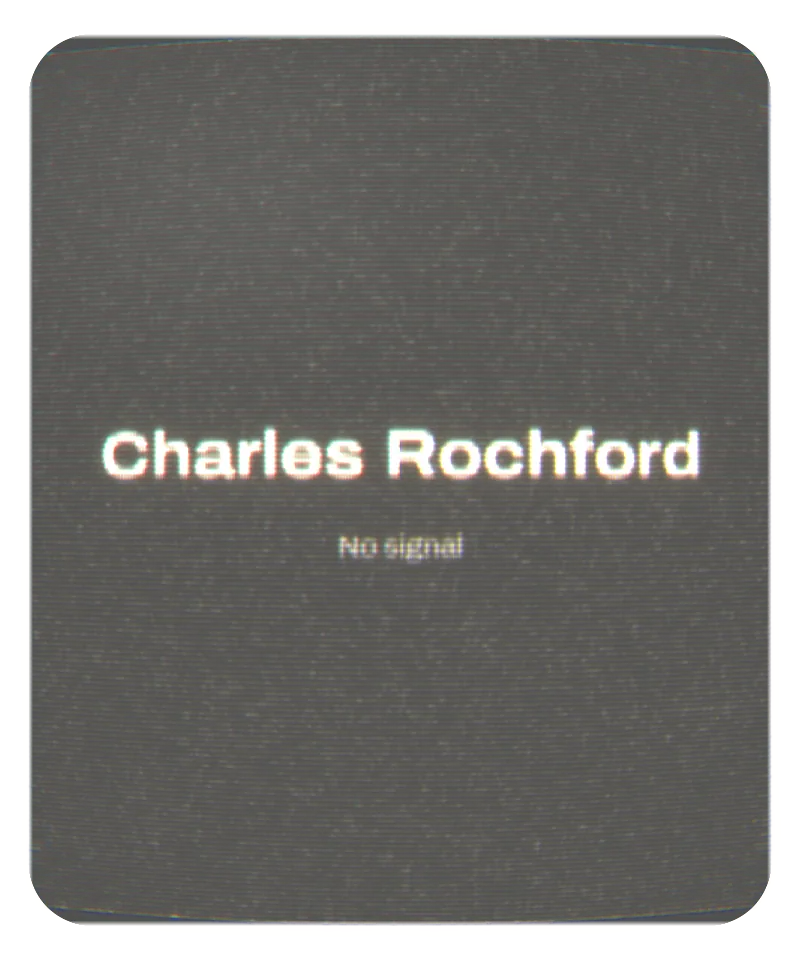
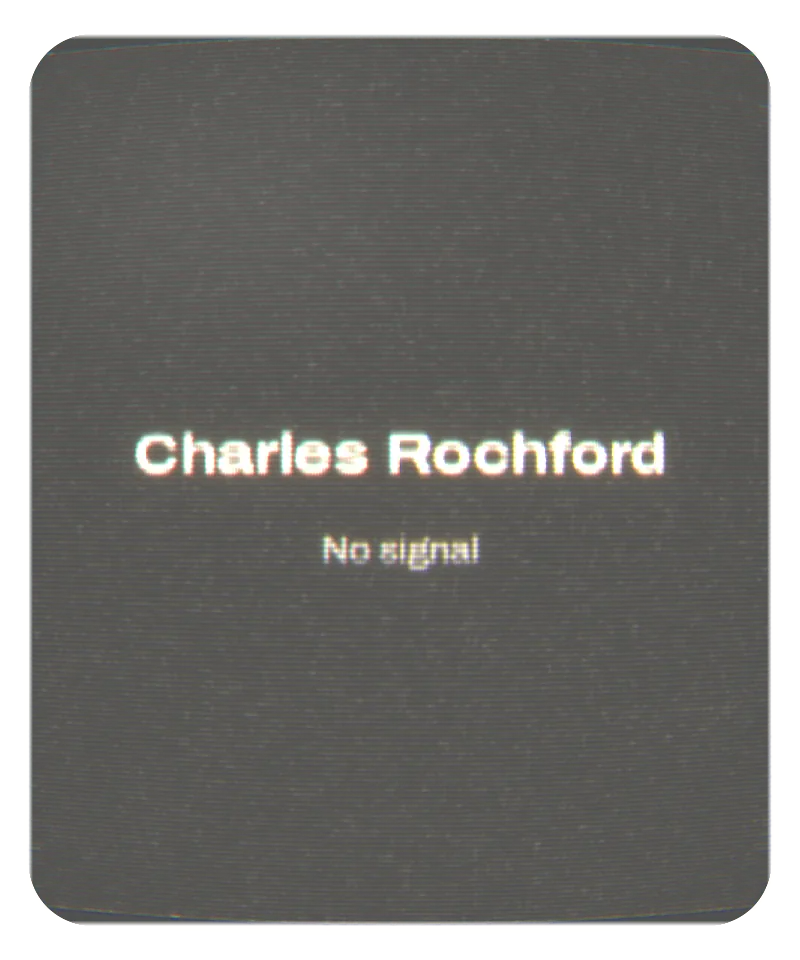
Story: crisp set fronts, round beads when the runs drain, livelier CRT placeholders
The bone set front is now a crisp line with a thin bright edge that sweeps left to right (PayPal too), so a letter is
cooling red or bone, never a long bone-to-rust gradient; the fill front is narrower. A draining tail breaks into round
beads (a circle's profile per bead, the first centred on the tail) and each run's last metal gathers into one round
bead that shrinks into its name, so nothing ends in a point. The CRT placeholders set the name as large as fits and
the tube throws a faint warm light onto the page once it is on.

Claude-Session: https://claude.ai/code/session_01PrrUSitYmSR7aDjHHAhibr

Changed region(s): [[0.125, 0.4375, 0.875, 0.5], [0.4062, 0.5312, 0.625, 0.5938]]

diff --git a/lib/gl/splitPour.ts b/lib/gl/splitPour.ts
@@ -51,10 +51,14 @@ vec3 blackbody(float t) {
 float prof(float s, vec4 B, float r0) {
   float u = (B.x - s) / (r0 * 2.6);
   float m = (1.0 + B.w * exp(-u * u)) * (1.0 + 0.07 * sin(s / (r0 * 5.0) - uTime * 9.0));
-  if (B.y > 0.5) {
-    float z = clamp((s - B.y) / (r0 * 10.0), 0.0, 1.0);
-    float bead = pow(0.5 + 0.5 * cos(6.2832 * (s - B.y) / (r0 * 4.6) + 3.1416), 0.7) * 1.25;
-    m *= mix(bead * smoothstep(0.0, 0.35, z + 0.12), 1.0, smoothstep(0.25, 1.0, z));
+  if (B.y > 0.5 && B.z < 1.5) {
+    // the draining tail breaks into round beads (a circle's profile per bead, the first one centred on the tail, so
+    // the end is always round), merging back into the stream further up
+    float z = clamp((s - B.y) / (r0 * 9.0), 0.0, 1.0);
+    float lam = r0 * 2.7, R = r0 * 1.1;
+    float d = mod(s - B.y + 0.5 * lam, lam) - 0.5 * lam;
+    float bead = sqrt(max(0.0, R * R - d * d)) / r0;
+    m *= mix(bead, 1.0, smoothstep(0.3, 1.0, z));
   }
   return m;
 }
@@ -97,7 +101,7 @@ void main() {
     G = normalize(mix(G, gb, hh) + 1e-5);
     R = mix(R, rb, hh);
     S = mix(S, sb + float(b) * 1000.0, hh);
-    H = mix(H, B.z, hh);
+    H = mix(H, min(B.z, 1.0), hh);
   }
   // beads falling off the forks
   for (int i = 0; i < 3; i++) {
@@ -346,6 +350,19 @@ export function startSplitPour({ box, canvas, onFail }: Options): () => void {
   const NAME = new Float32Array(NN * 4);
   const times = [PAYPAL, ...[0, 0, 1, 1, 2, 2].map(nameTimes)];
 
+  /** One run's front/tail/heat/bulb. When the run has nearly drained, its last metal gathers (surface tension) into one
+   * round bead at its end that shrinks into the name or the fork: heat 2 tells the shader to draw it as a plain bead
+   * (no taper, no beading), so it never ends in a point. */
+  function setRun(i: number, fr: number, tl: number, alive: boolean, bulb: number, run: Run) {
+    const rEnd = run.pts[(NP - 1) * 4 + 3];
+    const gather = 7 * rEnd;
+    const rem = fr - tl;
+    if (alive && tl > 0.5 && rem < gather) {
+      const v = Math.max(0, rem / gather);
+      B.set([fr, fr - Math.min(rem, 0.5 * rEnd) * v, 2, 1.25 * Math.sqrt(v) - 1], i * 4);
+    } else B.set([fr, tl, alive ? 1 : 0, bulb], i * 4);
+  }
+
   /** Everything for pour time tau. */
   function state(tau: number) {
     const g = geo!;
@@ -354,7 +371,7 @@ export function startSplitPour({ box, canvas, onFail }: Options): () => void {
     const fT = tau < RUN ? 0.1 * g.em * sw : front(tau);
     const tT = tau < RUN + LAG ? 0 : front(tau - LAG);
     const trunkAlive = sw > 0 && tT < g.trunk.len - 0.5;
-    B.set([fT, tT, trunkAlive ? 1 : 0, tau < RUN ? -0.75 + 1.05 * sw : 0.38], 0);
+    setRun(0, fT, tT, trunkAlive, tau < RUN ? -0.75 + 1.05 * sw : 0.38, g.trunk);
     // a run: its front leaves the fork when the trunk's front gets there, the tail when the trunk's tail does
     for (let i = 0; i < 6; i++) {
       const row = i >> 1;
@@ -366,7 +383,7 @@ export function startSplitPour({ box, canvas, onFail }: Options): () => void {
       const fr = go(tau);
       const tl = tau - LAG <= FORK[row] ? 0 : go(tau - LAG);
       const alive = tau > FORK[row] && tl < r.len - 0.5;
-      B.set([fr, tl, alive ? 1 : 0, 0.32], (i + 1) * 4);
+      setRun(i + 1, fr, tl, alive, 0.32, r);
     }
     // a bead falls off each fork as the tail passes, and sinks
     for (let k = 0; k < 3; k++) {

diff --git a/components/Story.css b/components/Story.css
@@ -96,8 +96,8 @@
   --glow: color-mix(in oklab, var(--ember) calc(var(--h) * var(--f) * 75%), transparent);
   /* the white-hot front only while it fills */
   --fo: calc(clamp(0, var(--f) * 12, 1) * clamp(0, (1 - var(--f)) * 6, 1));
-  --sf: 0.32em; /* softness of the fill front */
-  --ss: 0.16em; /* the set front: narrower, so the set metal never washes over the red */
+  --sf: 0.1em; /* the fill front: soft enough to read as liquid, too narrow to read as a gradient */
+  --ss: 0.025em; /* the set front: crisp; a thin bright line rides it (::after) */
   --e: calc((1 - var(--f)) * (100% + 2 * var(--sf)) - var(--sf));
   --x: calc(var(--k) * (100% + 2 * var(--ss)) - var(--ss));
   position: absolute;
@@ -120,6 +120,19 @@
 .sp-set {
   color: var(--bone);
 }
+.sp-head .sp-set {
+  mask-image: linear-gradient(var(--dir), #000 calc(var(--x) - var(--ss)), transparent calc(var(--x) + var(--ss)));
+}
+/* the set front: a thin bright line where the metal turns solid, only while it sweeps, so a letter is either cooling
+   red or bone with just this line between */
+.sp-w::after {
+  content: attr(data-w);
+  position: absolute;
+  inset: 0;
+  color: var(--front);
+  opacity: calc(clamp(0, var(--k) * 30, 1) * clamp(0, (1 - var(--k)) * 30, 1));
+  mask-image: linear-gradient(var(--dir), transparent calc(var(--x) - 0.05em), #000 var(--x), transparent calc(var(--x) + 0.05em));
+}
 /* left of the axis: the run enters at the right, so it fills right to left; it sets from its far (left) end */
 .sp-l {
   right: calc(50% + var(--g));
@@ -129,6 +142,10 @@
 }
 .sp-l .sp-fr {
   mask-image: linear-gradient(to right, transparent calc(var(--e) - var(--sf)), #000 var(--e), transparent calc(var(--e) + var(--sf) * 1.6));
+}
+.sp-l .sp-set,
+.sp-l::after {
+  --dir: to right;
 }
 .sp-l .sp-set {
   mask-image: linear-gradient(to right, #000 calc(var(--x) - var(--ss)), transparent calc(var(--x) + var(--ss)));
@@ -143,11 +160,15 @@
 .sp-r .sp-fr {
   mask-image: linear-gradient(to left, transparent calc(var(--e) - var(--sf)), #000 var(--e), transparent calc(var(--e) + var(--sf) * 1.6));
 }
+.sp-r .sp-set,
+.sp-r::after {
+  --dir: to left;
+}
 .sp-r .sp-set {
   mask-image: linear-gradient(to left, #000 calc(var(--x) - var(--ss)), transparent calc(var(--x) + var(--ss)));
 }
 /* PayPal is where the metal comes from: cold bone, it melts from the bottom up, lets the stream go through its y, and
-   cools from the top down. --spout moves it so the tip of the y sits on the figure's axis. */
+   cools, its bone front sweeping left to right like the names. --spout moves it so the tip of the y sits on the figure's axis. */
 .sp-head {
   --row: 0;
   --spout: 0.36em;
@@ -166,8 +187,9 @@
 .sp-head .sp-fr {
   mask-image: linear-gradient(to top, transparent calc(var(--e) - var(--sf)), #000 var(--e), transparent calc(var(--e) + var(--sf) * 1.6));
 }
-.sp-head .sp-set {
-  mask-image: linear-gradient(to bottom, #000 calc(var(--x) - var(--ss)), transparent calc(var(--x) + var(--ss)));
+.sp-head .sp-set,
+.sp-head::after {
+  --dir: to right;
 }
 
 /* the stream and its runs (lib/gl/splitPour.ts): under the text, overhanging the figure for the glow. --gl fades it

diff --git a/lib/gl/splitTime.ts b/lib/gl/splitTime.ts
@@ -13,7 +13,7 @@
 //                thins, so every run drains into its name and nothing is left lying on the page. A bead falls off at
 //                each fork and sinks into the page's liquid.
 //   then         each name cools once its run has drained (red, then a bone front sweeps in from its far end); PayPal
-//                cools from the top. By ~0.92 everything is set, and the names keep a slow, faint warmth.
+//                cools (its bone front sweeps left to right). By ~0.92 everything is set, and the names keep a slow, faint warmth.
 
 /** tau = clamp((p - MAP[0]) / MAP[1]) */
 export const MAP = [0.16, 0.56] as const;
@@ -27,9 +27,9 @@ export const FILL = 0.075; // a name fills
 export const STOP = 0.46; // the tail leaves the spout; it then runs the front's timeline shifted by LAG
 export const LAG = STOP - RUN;
 export const COOL = 0.15; // a drained name: hot -> red
-export const SET = [0.08, 0.12] as const; // after its run has drained: the bone front starts after [0], sweeps over [1]
+export const SET = [0.1, 0.07] as const; // after its run has drained: the bone front starts after [0], sweeps over [1]
 export const PP_COOL = [0.46, 0.24] as const; // PayPal: hot -> red
-export const PP_SET = [0.6, 0.12] as const; // PayPal: the bone front, top down
+export const PP_SET = [0.62, 0.07] as const; // PayPal: the bone front, left to right
 export const DRIP = 0.05; // a bead that falls off a fork sinks over this long
 
 export const clamp01 = (v: number) => (v < 0 ? 0 : v > 1 ? 1 : v);

diff --git a/components/Crt.css b/components/Crt.css
@@ -8,6 +8,13 @@
   border-radius: 6% / 5%;
   overflow: hidden;
   pointer-events: none;
+  /* the tube's light falling on the page around it: warm, faint */
+  box-shadow: 0 0 3.5rem 0.25rem color-mix(in oklab, var(--ember-hot) 10%, transparent);
+}
+@media (prefers-reduced-motion: no-preference) {
+  .js .crt:not([data-on]) .crt-scan {
+    box-shadow: none;
+  }
 }
 @media (prefers-reduced-motion: no-preference) {
   .js .crt:not([data-on]) .crt-img {

diff --git a/components/Story.tsx b/components/Story.tsx
@@ -168,7 +168,7 @@ function Casting({
   inset?: number;
 }) {
   return (
-    <span className={`sp-w ${className}`} style={style} data-in={inset}>
+    <span className={`sp-w ${className}`} style={style} data-in={inset} data-w={name}>
       {name}
       <span className="sp-liq">{name}</span>
       <span className="sp-fr">{name}</span>

diff --git a/scripts/crt-portraits.py b/scripts/crt-portraits.py
@@ -103,12 +103,17 @@ def placeholder_signal(name, seed):
     # snow: per-line noise, stretched a little along the line like a real tube's
     snow = rng.random((LINES * 2, W // 2))
     snow = np.asarray(Image.fromarray((snow * 255).astype(np.uint8)).resize((W, H), Image.BILINEAR), dtype=np.float64) / 255
-    a += (snow ** 5) * 0.2
+    a += (snow ** 5) * 0.15
     img = Image.new('L', (W, H), 0)
     d = ImageDraw.Draw(img)
-    big = archivo(64, 680, 118)
-    small = archivo(30, 520, 100)
-    for text, font, y, v in [(name, big, H * 0.47, 235), ('No signal', small, H * 0.57, 150)]:
+    # the name as large as fits in three quarters of the face
+    size = 84
+    big = archivo(size, 700, 118)
+    while d.textlength(name, font=big) > W * 0.72 and size > 40:
+        size -= 4
+        big = archivo(size, 700, 118)
+    small = archivo(36, 560, 104)
+    for text, font, y, v in [(name, big, H * 0.47, 250), ('No signal', small, H * 0.575, 170)]:
         bb = d.textbbox((0, 0), text, font=font)
         d.text(((W - (bb[2] - bb[0])) / 2 - bb[0], y - (bb[3] - bb[1]) / 2 - bb[1]), text, fill=v, font=font)
     t = np.asarray(img, dtype=np.float64) / 255
